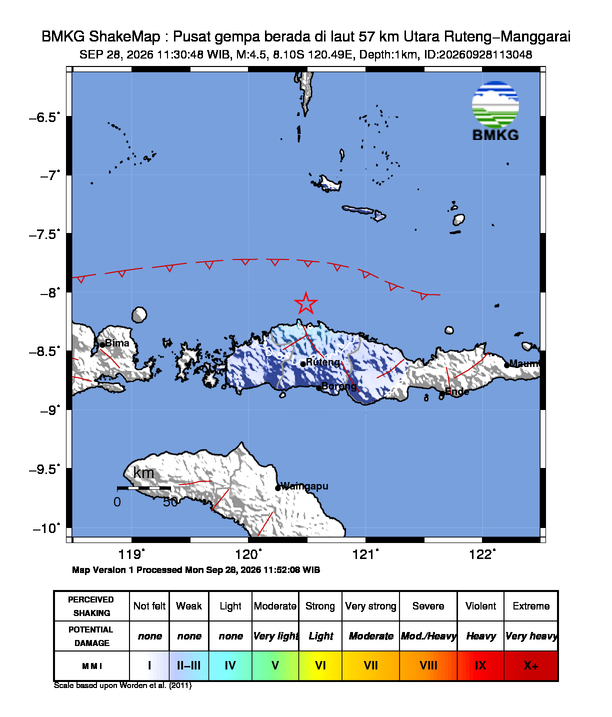
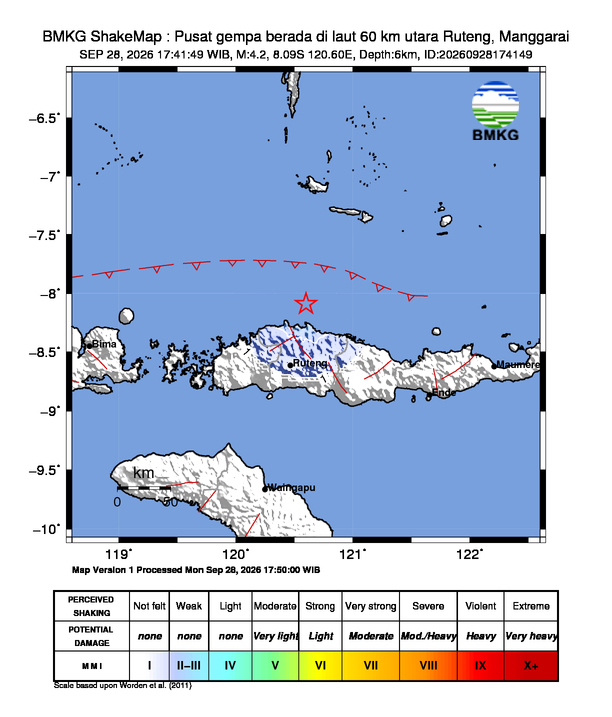
docs: update info gempa & README - 2026-09-28 19:45:30 WIB [skip ci]

diff --git a/README.md b/README.md
@@ -2,7 +2,7 @@
 
 > Monitor gempa bumi real-time untuk wilayah Indonesia. Data diambil otomatis dari **BMKG** setiap 5 menit oleh GitHub Actions, lalu ditampilkan lengkap di README ini beserta peta guncangannya (shakemap).
 
-🕒 **Update otomatis terakhir:** Senin, 28 September 2026 pukul 12.56.22
+🕒 **Update otomatis terakhir:** Senin, 28 September 2026 pukul 19.45.29
 
 ---
 
@@ -10,13 +10,13 @@
 
 | Parameter | Detail |
 | --- | --- |
-| 📊 **Magnitudo** | M 4.5 |
-| 📍 **Wilayah** | Pusat gempa berada di laut 57 km Utara Ruteng-Manggarai |
-| 🕒 **Waktu** | 28 Sep 2026, 11:30:48 WIB |
-| 🧭 **Koordinat** | -8.10,120.49 |
-| 📏 **Kedalaman** | 1 km |
+| 📊 **Magnitudo** | M 4.2 |
+| 📍 **Wilayah** | Pusat gempa berada di laut 60 km utara Ruteng, Manggarai |
+| 🕒 **Waktu** | 28 Sep 2026, 17:41:49 WIB |
+| 🧭 **Koordinat** | -8.09,120.60 |
+| 📏 **Kedalaman** | 6 km |
 | 🌊 **Potensi** | Gempa ini dirasakan untuk diteruskan pada masyarakat |
-| 📡 **Dirasakan** | III Kab. Manggarai |
+| 📡 **Dirasakan** | II - III Kab. Manggarai |
 | 🔗 **Sumber** | [BMKG — InfoGempa Realtime](https://www.bmkg.go.id/gempabumi) |
 
 ### 🗺 Peta Guncangan (Shakemap)
@@ -25,10 +25,11 @@
 
 ---
 
-## 📜 Riwayat 14 Gempa Terakhir
+## 📜 Riwayat 15 Gempa Terakhir
 
 | Waktu | Magnitudo | Wilayah | Kedalaman | Potensi |
 | --- | --- | --- | --- | --- |
+| 28 Sep 2026 17:41:49 WIB | **M 4.2** | Pusat gempa berada di laut 60 km utara Ruteng, Manggarai | 6 km | Gempa ini dirasakan untuk diteruskan pada masyarakat |
 | 28 Sep 2026 11:30:48 WIB | **M 4.5** | Pusat gempa berada di laut 57 km Utara Ruteng-Manggarai | 1 km | Gempa ini dirasakan untuk diteruskan pada masyarakat |
 | 28 Sep 2026 00:54:05 WIB | **M 3.4** | Pusat gempa berada di darat 18 km barat Bener Meriah | 10 km | Gempa ini dirasakan untuk diteruskan pada masyarakat |
 | 27 Sep 2026 18:29:00 WIB | **M 2.5** | Pusat gempa berada di darat 2.7 km timur laut Mamasa | 5 km | Gempa ini dirasakan untuk diteruskan pada masyarakat |
